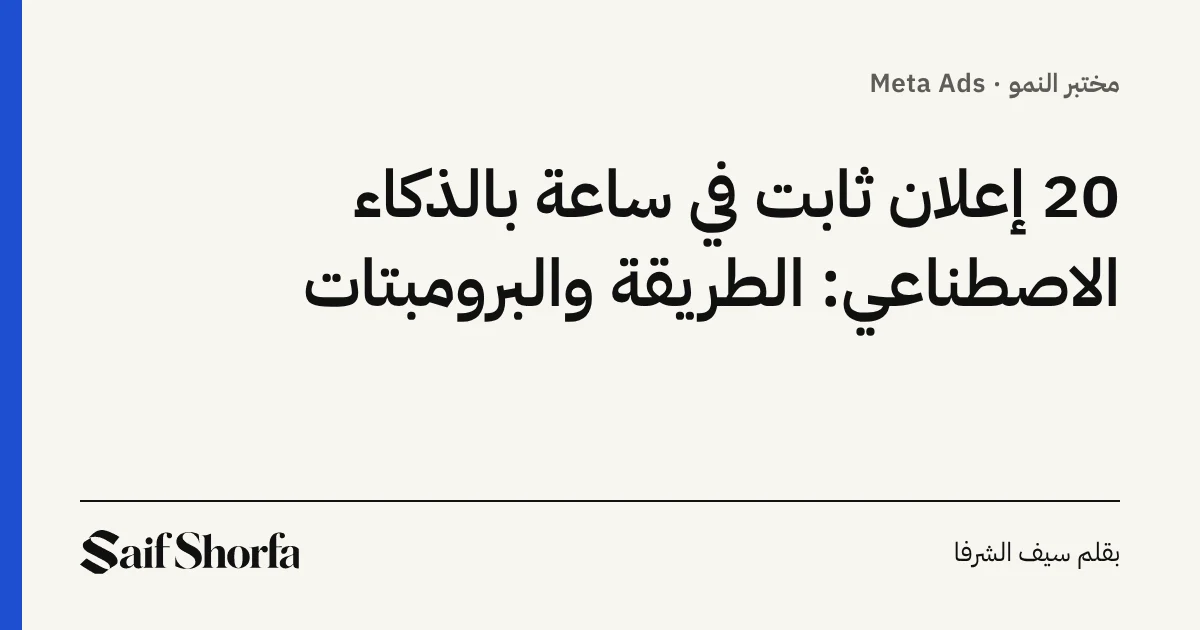
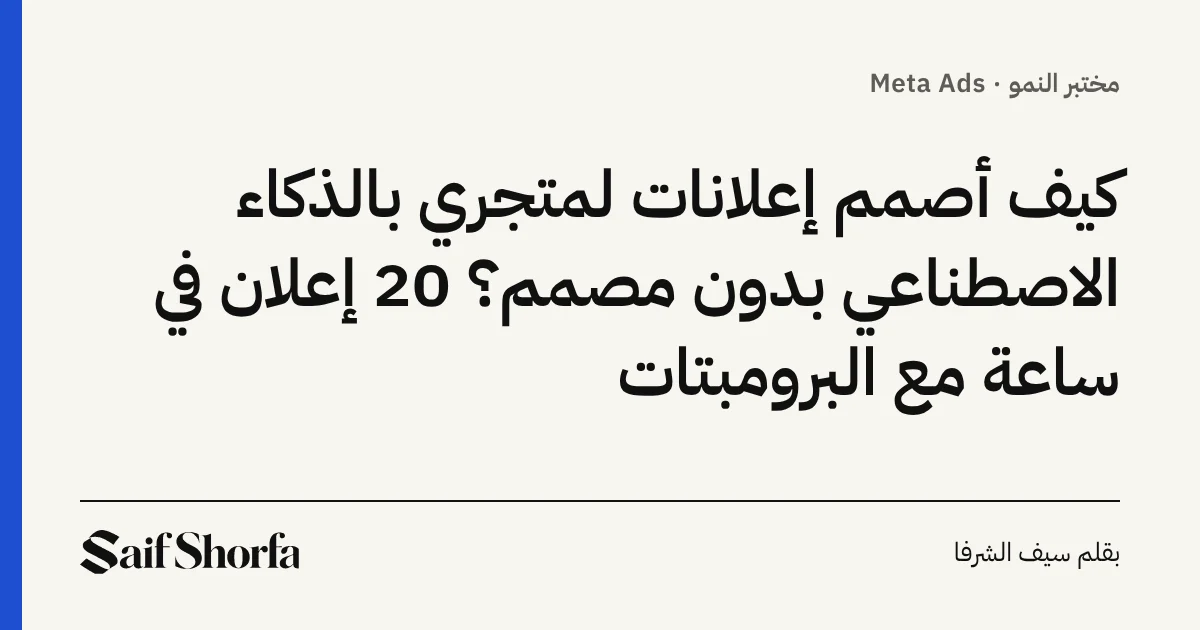
Retitle static ads articles as long AI-search questions (#34)
Question-form titles and H2s with direct short answers, 8 FAQs each. Slugs unchanged.

Claude-Session: https://claude.ai/code/session_01V6LGWVj9fonx4v4oqgoEkr

Changed region(s): [[0.1233, 0.2413, 0.9558, 0.5429], [0.4933, 0.5429, 0.9558, 0.6635]]

diff --git a/src/editorial/articles.body.js b/src/editorial/articles.body.js
@@ -4910,144 +4910,145 @@ export const content = {
 <p>كثير من أصحاب المتاجر في السعودية والخليج يحسبون إن الإعلان لازم يكون فيديو عشان يبيع. الفيديو قوي، بس الإعلان الثابت (Static Ad) أسرع وأرخص، وتقدر تختبر منه عشر أفكار بتكلفة فيديو واحد. جمعت لك هنا 12 شكل إعلان ثابت من براندات عالمية منشورة على Pinterest، ومع كل واحد: ليش يشتغل، وكيف تطبقه على متجرك، وبرومبت تبدأ فيه مع أدوات الذكاء الاصطناعي.</p>
 <p><strong>ملاحظة:</strong> الصور معروضة من Pinterest مباشرة مع رابط المصدر، وكل الحقوق لأصحابها. الهدف نتعلم الفكرة، مو ننسخ التصميم.</p>
 
-<h2>ليش الإعلان الثابت لسه يبيع؟</h2>
-<p>لأنه يوصل الرسالة في ثانية. العميل يسكرول بسرعة، والصورة اللي فيها جملة وحدة واضحة ومنتج واضح توقفه. وفوق هذا، الإعلان الثابت يخليك تختبر <strong>الزاوية</strong> (وش اللي يقنع العميل) قبل ما تصرف على فيديو. لما تعرف الزاوية الرابحة، بعدين حوّلها لفيديو.</p>
+<h2>هل إعلان الصورة لسه يبيع في ميتا ولا لازم فيديو؟</h2>
+<p>نعم، إعلان الصورة لسه يبيع، لأنه يوصل الرسالة في ثانية. العميل يسكرول بسرعة، والصورة اللي فيها جملة وحدة واضحة ومنتج واضح توقفه. وفوق هذا، الإعلان الثابت يخليك تختبر <strong>الزاوية</strong> (وش اللي يقنع العميل) قبل ما تصرف على فيديو. لما تعرف الزاوية الرابحة، بعدين حوّلها لفيديو.</p>
 
-<h2>1. من هذا إلى هذا (قبل وبعد)</h2>
+<h2>كيف أسوي إعلان قبل وبعد بدون ما ترفضه ميتا؟</h2>
+<p><strong>الجواب المختصر:</strong> يبان كأنه محتوى شخصي مو إعلان، والرسم البسيط يوصل النتيجة بدون كلام كثير.</p>
 
 <figure class="pin-figure">
   <a data-pin-do="embedPin" data-pin-width="medium" href="https://www.pinterest.com/pin/1125407394438815394/" target="_blank" rel="noopener nofollow">شاهد الإعلان على Pinterest</a>
   <figcaption>سبورة بيضاء مرسوم عليها «قبل وبعد» بخط اليد، والمنتج في اليد. <span class="pin-credit">المصدر: <a href="https://www.pinterest.com/pin/1125407394438815394/" target="_blank" rel="noopener nofollow">Pinterest</a>، والحقوق لأصحاب التصميم والبراند.</span></figcaption>
 </figure>
-<p><strong>ليش يشتغل:</strong> يبان كأنه محتوى شخصي مو إعلان، والرسم البسيط يوصل النتيجة بدون كلام كثير.</p>
 <p><strong>طبقه في الخليج:</strong> مناسب لمنتجات العناية والشعر والتنظيف. اكتب بخط اليد بلهجة قريبة: «إذا شعرك يتساقط... هذا اللي تحتاجه». انتبه لسياسات ميتا: لا تعرض صور جسم قبل وبعد لمنتجات الوزن والصحة.</p>
 <p class="prompt-label">برومبت تجربه:</p>
 <p><code>A hand holding a [product] jar next to a small whiteboard with simple hand-drawn before/after doodles, bright kitchen counter, natural daylight, UGC phone photo style, leave empty space on the whiteboard for text</code></p>
 
-<h2>2. عرض بوقت محدد</h2>
+<h2>وش أفضل شكل إعلان لعرض بوقت محدد مثل الجمعة البيضاء؟</h2>
+<p><strong>الجواب المختصر:</strong> الرقم كبير وواضح، والشريط المائل يعطي إحساس الاستعجال.</p>
 
 <figure class="pin-figure">
   <a data-pin-do="embedPin" data-pin-width="medium" href="https://www.pinterest.com/pin/1085226841492932743/" target="_blank" rel="noopener nofollow">شاهد الإعلان على Pinterest</a>
   <figcaption>إعلان خصم 30% على الموقع كله مع شريط «الساعات الأخيرة». <span class="pin-credit">المصدر: <a href="https://www.pinterest.com/pin/1085226841492932743/" target="_blank" rel="noopener nofollow">Pinterest</a>، والحقوق لأصحاب التصميم والبراند.</span></figcaption>
 </figure>
-<p><strong>ليش يشتغل:</strong> الرقم كبير وواضح، والشريط المائل يعطي إحساس الاستعجال.</p>
 <p><strong>طبقه في الخليج:</strong> استخدمه في الجمعة البيضاء، اليوم الوطني، ونهاية الشهر وقت الرواتب. اكتب «آخر 24 ساعة» وخل الخصم الحقيقي هو الرقم الأكبر في الصورة. وقبل ما تكثر من الخصومات اقرأ <a href="/blog/constant-discounts-eat-margin/">الخصم الدائم يأكل هامشك</a>.</p>
 <p class="prompt-label">برومبت تجربه:</p>
 <p><code>Bold sale poster for a [product category] brand, deep [brand color] background, product bottles arranged in the center, diagonal neon tape banner across the image, large empty area at the top for the discount number, studio lighting, high contrast</code></p>
 
-<h2>3. البحث والحل</h2>
+<h2>كيف أحوّل سؤال العميل في قوقل لإعلان صورة يبيع؟</h2>
+<p><strong>الجواب المختصر:</strong> يبدأ من سؤال العميل نفسه، فيحس إن الإعلان يكلمه هو.</p>
 
 <figure class="pin-figure">
   <a data-pin-do="embedPin" data-pin-width="medium" href="https://www.pinterest.com/pin/880242690208455354/" target="_blank" rel="noopener nofollow">شاهد الإعلان على Pinterest</a>
   <figcaption>شريط بحث فيه سؤال العميل، وتحته المنتج كحل. <span class="pin-credit">المصدر: <a href="https://www.pinterest.com/pin/880242690208455354/" target="_blank" rel="noopener nofollow">Pinterest</a>، والحقوق لأصحاب التصميم والبراند.</span></figcaption>
 </figure>
-<p><strong>ليش يشتغل:</strong> يبدأ من سؤال العميل نفسه، فيحس إن الإعلان يكلمه هو.</p>
 <p><strong>طبقه في الخليج:</strong> خذ أسئلة عملائك الحقيقية من واتساب والتعليقات واكتبها بلهجتهم: «كيف أخلي بشرتي ما تنشف في الشتاء؟». تحت السؤال: المنتج وجملة وحدة عن النتيجة.</p>
 <p class="prompt-label">برومبت تجربه:</p>
 <p><code>Minimal light grey background, a realistic search bar mockup at the top, below it a [product] jar with a creamy texture swatch, soft shadows, clean skincare aesthetic, space for two short text lines</code></p>
 
-<h2>4. الميم أو المشهد المعروف</h2>
+<h2>هل إعلانات الميمز تنفع للبراندات في السعودية والخليج؟</h2>
+<p><strong>الجواب المختصر:</strong> الدعابة توقف السكرول، والجملة القصيرة تربط الضحكة بفائدة المنتج.</p>
 
 <figure class="pin-figure">
   <a data-pin-do="embedPin" data-pin-width="medium" href="https://www.pinterest.com/pin/659707045460694681/" target="_blank" rel="noopener nofollow">شاهد الإعلان على Pinterest</a>
   <figcaption>إعلان واقي شمس يستخدم صيغة «محد كامل... بس» مع وضعية مشهورة. <span class="pin-credit">المصدر: <a href="https://www.pinterest.com/pin/659707045460694681/" target="_blank" rel="noopener nofollow">Pinterest</a>، والحقوق لأصحاب التصميم والبراند.</span></figcaption>
 </figure>
-<p><strong>ليش يشتغل:</strong> الدعابة توقف السكرول، والجملة القصيرة تربط الضحكة بفائدة المنتج.</p>
 <p><strong>طبقه في الخليج:</strong> استخدم عبارات دارجة في الخليج وميمز معروفة عند جمهورك، بس تجنب صور أشخاص مشهورين بدون إذن. الأفضل تصور شخص من فريقك بنفس الفكرة.</p>
 <p class="prompt-label">برومبت تجربه:</p>
 <p><code>A man in a black suit striking a dramatic pose on a plain beige background, a [product] tube standing on the right side, playful advertising composition, lots of negative space at the top for a quote</code></p>
 
-<h2>5. شكل تطبيق الملاحظات</h2>
+<h2>ليش الإعلان اللي يشبه ملاحظات الجوال يوقف السكرول؟</h2>
+<p><strong>الجواب المختصر:</strong> يشبه شي يشاركه صديق، فالعين ما تعامله كإعلان.</p>
 
 <figure class="pin-figure">
   <a data-pin-do="embedPin" data-pin-width="medium" href="https://www.pinterest.com/pin/1149754979901890661/" target="_blank" rel="noopener nofollow">شاهد الإعلان على Pinterest</a>
   <figcaption>إعلان مصمم كأنه ملاحظة في الجوال: «سري للحبوب والبشرة الدهنية». <span class="pin-credit">المصدر: <a href="https://www.pinterest.com/pin/1149754979901890661/" target="_blank" rel="noopener nofollow">Pinterest</a>، والحقوق لأصحاب التصميم والبراند.</span></figcaption>
 </figure>
-<p><strong>ليش يشتغل:</strong> يشبه شي يشاركه صديق، فالعين ما تعامله كإعلان.</p>
 <p><strong>طبقه في الخليج:</strong> اكتب كأنها ملاحظة شخصية: «روتيني قبل الدوام» أو «مشترياتي من الجمعة البيضاء»، مع 3 إلى 4 نقاط فيها إيموجي، والمنتج تحت.</p>
 <p class="prompt-label">برومبت تجربه:</p>
 <p><code>Phone notes app screenshot style, white background with a subtle grid, a [product] jar at the bottom, realistic iOS notes interface, leave the top two thirds empty for a handwritten-style list</code></p>
 
-<h2>6. خريطة الفوائد</h2>
+<h2>كيف أوضح مكونات المنتج وفوايده في صورة إعلان وحدة؟</h2>
+<p><strong>الجواب المختصر:</strong> يجاوب «وش فيه؟» في نظرة وحدة، وهذا يرفع الثقة في المنتجات اللي العميل يقارن مكوناتها.</p>
 
 <figure class="pin-figure">
   <a data-pin-do="embedPin" data-pin-width="medium" href="https://www.pinterest.com/pin/432134526763983081/" target="_blank" rel="noopener nofollow">شاهد الإعلان على Pinterest</a>
   <figcaption>المنتج في المنتصف، وحوله أسهم توضح كل مكون وفايدته. <span class="pin-credit">المصدر: <a href="https://www.pinterest.com/pin/432134526763983081/" target="_blank" rel="noopener nofollow">Pinterest</a>، والحقوق لأصحاب التصميم والبراند.</span></figcaption>
 </figure>
-<p><strong>ليش يشتغل:</strong> يجاوب «وش فيه؟» في نظرة وحدة، وهذا يرفع الثقة في المنتجات اللي العميل يقارن مكوناتها.</p>
 <p><strong>طبقه في الخليج:</strong> قوي للعطور (المكونات)، والعناية، والمكملات. اكتب الفوائد بكلمتين لكل سهم، ولا تزحم الصورة بأكثر من 5 أسهم.</p>
 <p class="prompt-label">برومبت تجربه:</p>
 <p><code>Product flat lay of [product] packets on a warm cream background, thin line arrows pointing to each part, editorial infographic style, empty labels area around the product, soft light</code></p>
 
-<h2>7. شكل منشور إنستغرام</h2>
+<h2>هل الإعلان اللي يشبه منشور إنستغرام عادي يبيع أكثر؟</h2>
+<p><strong>الجواب المختصر:</strong> يتماشى مع الفيد، فيبان محتوى عادي، والزر يوضح الخطوة الجاية.</p>
 
 <figure class="pin-figure">
   <a data-pin-do="embedPin" data-pin-width="medium" href="https://www.pinterest.com/pin/1026117096398811495/" target="_blank" rel="noopener nofollow">شاهد الإعلان على Pinterest</a>
   <figcaption>إعلان مصمم كأنه منشور إنستغرام مع زر خصم. <span class="pin-credit">المصدر: <a href="https://www.pinterest.com/pin/1026117096398811495/" target="_blank" rel="noopener nofollow">Pinterest</a>، والحقوق لأصحاب التصميم والبراند.</span></figcaption>
 </figure>
-<p><strong>ليش يشتغل:</strong> يتماشى مع الفيد، فيبان محتوى عادي، والزر يوضح الخطوة الجاية.</p>
 <p><strong>طبقه في الخليج:</strong> حط اسم حسابك وصورة المنتج بألوان البراند، وزر واضح مثل «اطلب الحين واستلم بكرة».</p>
 <p class="prompt-label">برومبت تجربه:</p>
 <p><code>Instagram post mockup with a bright sky blue background, a [product] jar surrounded by its raw ingredients, small rounded badges on both sides, a pill-shaped button at the bottom, playful food brand style</code></p>
 
-<h2>8. إعلان الموسم</h2>
+<h2>وش أفضل تصميم إعلان لمواسم رمضان واليوم الوطني والجمعة البيضاء؟</h2>
+<p><strong>الجواب المختصر:</strong> التاريخ واضح، والخصم كبير، والمنتجات في مشهد جذاب.</p>
 
 <figure class="pin-figure">
   <a data-pin-do="embedPin" data-pin-width="medium" href="https://www.pinterest.com/pin/848084173619769984/" target="_blank" rel="noopener nofollow">شاهد الإعلان على Pinterest</a>
   <figcaption>إعلان بلاك فرايدي بخلفية بنفسجية ومنتجات على الرمل وخصم يصل 40%. <span class="pin-credit">المصدر: <a href="https://www.pinterest.com/pin/848084173619769984/" target="_blank" rel="noopener nofollow">Pinterest</a>، والحقوق لأصحاب التصميم والبراند.</span></figcaption>
 </figure>
-<p><strong>ليش يشتغل:</strong> التاريخ واضح، والخصم كبير، والمنتجات في مشهد جذاب.</p>
 <p><strong>طبقه في الخليج:</strong> نفس الفكرة لرمضان واليوم الوطني ويوم التأسيس والجمعة البيضاء، مع التواريخ مكتوبة. ولقراءة نتائج الموسم صح شوف <a href="/blog/black-friday-results-review/">كيف تقيّم نتائج الجمعة البيضاء</a>.</p>
 <p class="prompt-label">برومبت تجربه:</p>
 <p><code>Festive seasonal sale visual, purple gradient sky, [product] bottles standing on soft sand with small decorative elements, glossy commercial lighting, large empty area at the top for the sale headline and dates</code></p>
 
-<h2>9. التقييمات حول المنتج</h2>
+<h2>كيف أستخدم تقييمات عملائي في إعلان صورة؟</h2>
+<p><strong>الجواب المختصر:</strong> الإثبات الاجتماعي يجاوب «هل جربه أحد؟» قبل ما يسأل.</p>
 
 <figure class="pin-figure">
   <a data-pin-do="embedPin" data-pin-width="medium" href="https://www.pinterest.com/pin/1049127675703104700/" target="_blank" rel="noopener nofollow">شاهد الإعلان على Pinterest</a>
   <figcaption>منتج واقي شمس وحوله تقييمات عملاء بخمس نجوم. <span class="pin-credit">المصدر: <a href="https://www.pinterest.com/pin/1049127675703104700/" target="_blank" rel="noopener nofollow">Pinterest</a>، والحقوق لأصحاب التصميم والبراند.</span></figcaption>
 </figure>
-<p><strong>ليش يشتغل:</strong> الإثبات الاجتماعي يجاوب «هل جربه أحد؟» قبل ما يسأل.</p>
 <p><strong>طبقه في الخليج:</strong> استخدم تقييمات حقيقية من متجرك في سلة أو زد، بأسماء مختصرة وبإذن العميل. لا تخترع تقييمات.</p>
 <p class="prompt-label">برومبت تجربه:</p>
 <p><code>A [product] tube on a vivid blue background, floating white review cards with five stars arranged around it, clean UI style, soft shadows, leave the review text areas blank</code></p>
 
-<h2>10. فقاعات المحادثة</h2>
+<h2>كيف أكتب إعلان صورة بكلام العميل نفسه؟</h2>
+<p><strong>الجواب المختصر:</strong> العميل يشوف شكواه مكتوبة بكلماته، فيحس إن المنتج له.</p>
 
 <figure class="pin-figure">
   <a data-pin-do="embedPin" data-pin-width="medium" href="https://www.pinterest.com/pin/1085226841496413153/" target="_blank" rel="noopener nofollow">شاهد الإعلان على Pinterest</a>
   <figcaption>فقاعات محادثة فيها شكاوى يومية، والمنتج كحل. <span class="pin-credit">المصدر: <a href="https://www.pinterest.com/pin/1085226841496413153/" target="_blank" rel="noopener nofollow">Pinterest</a>، والحقوق لأصحاب التصميم والبراند.</span></figcaption>
 </figure>
-<p><strong>ليش يشتغل:</strong> العميل يشوف شكواه مكتوبة بكلماته، فيحس إن المنتج له.</p>
 <p><strong>طبقه في الخليج:</strong> اكتب الفقاعات بلهجة خليجية: «الساعة 3 العصر وأنا خلاص طفيت»، «بشرتي باهتة من المكيف». المحادثة شي يعرفه الكل من واتساب.</p>
 <p class="prompt-label">برومبت تجربه:</p>
 <p><code>Soft pastel gradient background, three chat bubbles with small round avatars on the left, a [product] tub in the bottom left corner, friendly wellness brand style, bubble text left empty</code></p>
 
-<h2>11. عرض الباقة</h2>
+<h2>هل عروض الباقات مثل «اشتر 2 واحصل على 2» تنفع لمتجري؟</h2>
+<p><strong>الجواب المختصر:</strong> العرض مكتوب بخط ضخم، والعربة المليانة توصل إحساس الكمية والقيمة.</p>
 
 <figure class="pin-figure">
   <a data-pin-do="embedPin" data-pin-width="medium" href="https://www.pinterest.com/pin/896779344563954123/" target="_blank" rel="noopener nofollow">شاهد الإعلان على Pinterest</a>
   <figcaption>عرض «اشتر 2 واحصل على 2» بعربة تسوق مليانة منتجات وخلفية صفراء. <span class="pin-credit">المصدر: <a href="https://www.pinterest.com/pin/896779344563954123/" target="_blank" rel="noopener nofollow">Pinterest</a>، والحقوق لأصحاب التصميم والبراند.</span></figcaption>
 </figure>
-<p><strong>ليش يشتغل:</strong> العرض مكتوب بخط ضخم، والعربة المليانة توصل إحساس الكمية والقيمة.</p>
 <p><strong>طبقه في الخليج:</strong> الباقات ترفع متوسط قيمة الطلب، وهذا يهم لما يكون عندك شحن أو دفع عند الاستلام. احسب الهامش قبل العرض، وشوف <a href="/blog/roas-with-discounts/">كيف تحسب العائد مع الخصومات</a>.</p>
 <p class="prompt-label">برومبت تجربه:</p>
 <p><code>Mini shopping cart full of [product] bottles and tubes on a bright yellow background, a small receipt hanging from the cart, punchy retail ad style, large empty area at the top for an offer headline</code></p>
 
-<h2>12. التشبيه البصري</h2>
+<h2>كيف أوصل ميزة منتجي بصورة بدون كلام كثير؟</h2>
+<p><strong>الجواب المختصر:</strong> يحول ميزة مجردة (سكر أقل) لصورة يفهمها أي أحد بدون قراءة.</p>
 
 <figure class="pin-figure">
   <a data-pin-do="embedPin" data-pin-width="medium" href="https://www.pinterest.com/pin/920986192568148542/" target="_blank" rel="noopener nofollow">شاهد الإعلان على Pinterest</a>
   <figcaption>ميزان فيه علب مشروب مقابل مكعبات سكر توضح الفرق. <span class="pin-credit">المصدر: <a href="https://www.pinterest.com/pin/920986192568148542/" target="_blank" rel="noopener nofollow">Pinterest</a>، والحقوق لأصحاب التصميم والبراند.</span></figcaption>
 </figure>
-<p><strong>ليش يشتغل:</strong> يحول ميزة مجردة (سكر أقل) لصورة يفهمها أي أحد بدون قراءة.</p>
 <p><strong>طبقه في الخليج:</strong> فكر بالميزة الأقوى عندك وكيف تشوفها العين: ميزان، مقارنة حجم، أو ساعة. وتأكد إن أي ادعاء صحي أو رقمي عندك دليل عليه.</p>
 <p class="prompt-label">برومبت تجربه:</p>
 <p><code>A vintage kitchen scale on a cobalt blue background, [product] cans on one side and a pile of sugar cubes on the other, cubes falling from above, surreal clean product photography, space at the top for a headline</code></p>
 
 <!--cta-->
 
-<h2>كيف تختار من الـ 12؟</h2>
+<h2>أي شكل إعلان صورة أبدأ فيه لمتجري؟</h2>
+<p>ابدأ من أقوى شي عندك: لو عندك أسئلة متكررة من العملاء، ابدأ بإعلان «البحث والحل» أو «المحادثة». لو عندك تقييمات قوية، ابدأ بالتقييمات أو قبل وبعد. ولو عندك موسم أو عرض، ابدأ بإعلان العرض أو الباقة. واختبر 3 إلى 5 أشكال مع بعض بدل ما تراهن على واحد.</p>
 <ol>
   <li><strong>ابدأ بمشكلة العميل:</strong> لو عندك أسئلة متكررة، ابدأ بـ «البحث والحل» و«فقاعات المحادثة».</li>
   <li><strong>لو عندك تقييمات قوية:</strong> «التقييمات حول المنتج» و«قبل وبعد».</li>
@@ -5056,7 +5057,7 @@ export const content = {
   <li><strong>احكم على المبيعات، مو النقرات:</strong> إعلان يجيب نقرات كثير وما يبيع ممكن تكون المشكلة في الصفحة أو العرض. اقرأ <a href="/blog/high-ctr-no-sales/">نقرات عالية بدون مبيعات</a>.</li>
 </ol>
 
-<h2>كيف تستخدم البرومبتات؟</h2>
+<h2>كيف أستخدم البرومبتات مع أدوات الذكاء الاصطناعي لتصميم الإعلان؟</h2>
 <p>البرومبتات مكتوبة بالإنجليزي لأن أدوات توليد الصور تفهمه أفضل. بدّل <code>[product]</code> باسم منتجك ونوعه، وارفع صورة منتجك الحقيقية كمرجع إذا الأداة تسمح. خل الصورة بدون نص، وأضف النص العربي بعدين في Canva أو أي برنامج تصميم، لأن أدوات الذكاء الاصطناعي لسه تغلط في الحروف العربية.</p>
 
 <h2>الخلاصة</h2>
@@ -5078,6 +5079,22 @@ export const content = {
       [
         "كم إعلان ثابت أختبر في البداية؟",
         "من 3 إلى 5 أشكال مختلفة في نفس الوقت، وكل شكل بنسختين، وبعدها كبّر اللي يبيع.",
+      ],
+      [
+        "وش أفضل تصميم إعلان لمتجر عطور أو عناية في السعودية؟",
+        "الأشكال اللي توضح المكونات والفوائد، والتقييمات، وقبل وبعد (للعناية بدون ادعاءات طبية). اختبر أكثر من شكل واحكم على المبيعات.",
+      ],
+      [
+        "هل أكتب الإعلان بالفصحى أو باللهجة الخليجية؟",
+        "اللهجة الخليجية البسيطة غالبًا أقرب للعميل في السوشيال، بشرط تكون واضحة ومفهومة. اكتب بكلمات عملائك نفسهم من التعليقات وواتساب.",
+      ],
+      [
+        "كم مرة أغير تصاميم الإعلانات؟",
+        "لما تلاحظ الأداء ينزل والتكرار يرتفع، وغالبًا كل أسبوعين إلى أربعة لإعلانات الصور. جهز النسخ الجديدة قبل ما يتعب الإعلان القديم.",
+      ],
+      [
+        "هل إعلانات الصور تنفع في سناب شات وتيك توك؟",
+        "تنفع، بس الفيديو أقوى هناك عادة. استخدم الصورة لاختبار الفكرة بسرعة، وحوّل الرابح لفيديو قصير.",
       ],
     ],
     sources: [
@@ -5107,7 +5124,8 @@ export const content = {
 <p>أكثر شي يوقف أصحاب المتاجر عن اختبار إعلانات جديدة هو الوقت والتكلفة: مصمم، جلسة تصوير، وأيام انتظار. مع الذكاء الاصطناعي تقدر تطلع 20 نسخة إعلان ثابت في ساعة، بشرط تشتغل بنظام واضح. هنا الطريقة اللي أنصح فيها، مع برومبتات جاهزة وأمثلة من Pinterest تلهمك.</p>
 <p><strong>ملاحظة:</strong> الأمثلة معروضة من Pinterest مع رابط المصدر، والحقوق لأصحابها. نتعلم منها الفكرة، ونصمم نسختنا.</p>
 
-<h2>المعادلة: 5 زوايا × 4 نسخ</h2>
+<h2>كيف أطلع 20 إعلان لمتجري في ساعة وحدة؟</h2>
+<p>الطريقة إنك تشتغل بمعادلة: 5 زوايا بيع × 4 نسخ لكل زاوية = 20 إعلان. الذكاء الاصطناعي يكتب العناوين ويولد المشاهد، وأنت تضيف صورة منتجك الحقيقية والنص العربي في Canva. هيك كل مجموعة إعلانات تختبر فكرة وحدة، وتعرف بسرعة وش يقنع عميلك.</p>
 <p>الزاوية هي السبب اللي يخلي العميل يشتري. مثلًا لمتجر عناية بالبشرة:</p>
 <ol>
   <li><strong>المشكلة:</strong> «بشرتك تنشف من المكيف؟»</li>
@@ -5118,12 +5136,14 @@ export const content = {
 </ol>
 <p>لكل زاوية سوّي 4 نسخ: تغير الخلفية، أو العنوان، أو زاوية التصوير، أو اللون. هيك عندك 20 إعلان، وكل مجموعة تختبر فكرة وحدة.</p>
 
-<h2>الخطوة 1: العناوين في 10 دقايق</h2>
+<h2>كيف أكتب عناوين إعلانات بالذكاء الاصطناعي بلهجة خليجية؟</h2>
+<p>أعطِ الأداة نوع منتجك، وسوقك (السعودية والخليج)، والزوايا اللي تبيها، واطلب عناوين قصيرة أقل من 7 كلمات بلهجة خليجية بسيطة وبدون مبالغة. بعدين اختار الأقوى وراجع كل وعد فيه. هذا ياخذ حوالي 10 دقايق.</p>
 <p>اطلب من ChatGPT أو Claude أو Gemini:</p>
 <p><code dir="rtl">أنا متجر [نوع المنتج] في السعودية والخليج. اكتب لي 4 عناوين إعلان قصيرة (أقل من 7 كلمات) لكل زاوية من هذه الزوايا: المشكلة، النتيجة، الإثبات، العرض، الهوية. بلهجة خليجية بسيطة، بدون مبالغة ولا ادعاءات طبية.</code></p>
 <p>اختر الأقوى، وتأكد إن كل وعد في العنوان صحيح وتقدر تثبته.</p>
 
-<h2>الخطوة 2: المشاهد في 30 دقيقة</h2>
+<h2>وش أفضل برومبت لتصميم إعلان منتج بالذكاء الاصطناعي؟</h2>
+<p>أفضل برومبت يوصف المشهد مو الإعلان كامل: المنتج، والخلفية واللون، والإضاءة، وزاوية التصوير، ومساحة فاضية للنص. اكتبه بالإنجليزي لأن أدوات الصور تفهمه أفضل، واطلب الصورة بدون أي نص. تحت 8 أنماط مجرّبة مع برومبت لكل واحد.</p>
 <p>هذي أمثلة من Pinterest لأنماط بصرية تنفع كقوالب، ومع كل واحد برومبت لنسختك.</p>
 
 <h3>المودل مع المنتج</h3>
@@ -5198,7 +5218,9 @@ export const content = {
 <p>يناسب زاوية <strong>المشكلة</strong> بأسلوب ذكي. الشكل مألوف للكل من الجوال.</p>
 <p><code>Smartphone incoming call screen mockup, dark green background, a [product] pouch shown as the caller photo, red and green call buttons at the bottom, space at the top for a two line message</code></p>
 
-<h2>الخطوة 3: التجميع في 20 دقيقة</h2>
+<h2>هل أقدر أكتب نص عربي في الصورة بالذكاء الاصطناعي؟</h2>
+<p>غالبًا لا بشكل مضبوط. أدوات توليد الصور لسه تغلط في الحروف العربية وتشبيكها، فالأفضل تطلب الصورة بدون نص، وتضيف العنوان العربي بنفسك في Canva أو أي برنامج تصميم. هيك تضمن الخط والإملاء وتحافظ على هوية البراند.</p>
+<p>خطوات التجميع (حوالي 20 دقيقة):</p>
 <ol>
   <li>افتح Canva، وحط المشهد اللي طلعته.</li>
   <li>إذا المشهد فيه منتج مولّد، بدّله بصورة منتجك الحقيقية (احذف الخلفية من الصورة الأصلية). العميل لازم يشوف المنتج اللي بيستلمه.</li>
@@ -5208,7 +5230,8 @@ export const content = {
 
 <!--cta-->
 
-<h2>كيف تختبر الـ 20 بدون ما تحرق الميزانية؟</h2>
+<h2>كم إعلان أختبر بالبداية وكيف ما أحرق الميزانية؟</h2>
+<p>لا تشغّل الـ 20 مع بعض. ابدأ بنسخة وحدة من كل زاوية (5 إعلانات) عشان تعرف أي سبب يقنع العميل، وبعدها اختبر النسخ الأربع للزاوية الرابحة بس. واحكم على الطلبات والمبيعات، مو على النقرات.</p>
 <ol>
   <li><strong>أول اختبار للزوايا:</strong> نسخة وحدة من كل زاوية (5 إعلانات) في حملة وحدة.</li>
   <li><strong>بعد ما تبان الزاوية الرابحة:</strong> شغّل نسخها الأربع وشوف أي تصميم أقوى.</li>
@@ -5217,7 +5240,8 @@ export const content = {
 </ol>
 <p>وللأفكار اللي تبدأ منها، شوف <a href="/blog/static-ad-formats-gulf/">12 شكل إعلان ثابت يبيع في الخليج</a>.</p>
 
-<h2>أخطاء شائعة مع إعلانات الذكاء الاصطناعي</h2>
+<h2>هل ميتا ترفض الإعلانات المصممة بالذكاء الاصطناعي؟</h2>
+<p>ميتا ما ترفض الإعلان لأنه مصمم بالذكاء الاصطناعي بحد ذاته. الرفض غالبًا يجي من المحتوى: ادعاءات ما تقدر تثبتها، أو صور قبل وبعد لمنتجات صحية، أو محتوى مضلل. وفي بعض الحالات ممكن تطلب الإفصاح عن الصور المولدة. هذي أشهر الأخطاء:</p>
 <ul>
   <li><strong>منتج مولّد يختلف عن الحقيقي:</strong> هذا يضر الثقة ويرفع المرتجع. استخدم صورة منتجك.</li>
   <li><strong>نص عربي من أداة الصور:</strong> غالبًا فيه أخطاء. أضفه يدويًا.</li>
@@ -5244,6 +5268,22 @@ export const content = {
       [
         "هل ميتا ترفض الإعلانات المصممة بالذكاء الاصطناعي؟",
         "ميتا تراجع المحتوى والادعاءات، وممكن تطلب الإفصاح عن الصور المولدة في بعض الحالات. التزم بسياسات الإعلانات، وتجنب الادعاءات اللي ما تقدر تثبتها.",
+      ],
+      [
+        "هل أحتاج مصمم إذا استخدمت الذكاء الاصطناعي؟",
+        "تقدر تبدأ بدون مصمم للاختبار. لما تعرف الفكرة الرابحة، المصمم يفيدك في تحسينها وتوحيد الهوية.",
+      ],
+      [
+        "هل الإعلانات المولدة بالذكاء الاصطناعي تبيع مثل التصوير الحقيقي؟",
+        "تعتمد على الفكرة والمنتج. الأهم إن المنتج في الإعلان هو نفسه الحقيقي، والحكم يكون على المبيعات مو على شكل التصميم.",
+      ],
+      [
+        "كيف أخلي إعلانات الذكاء الاصطناعي تناسب جمهور الخليج؟",
+        "استخدم لهجة خليجية في العنوان، ولبس وستايل يناسب جمهورك، ومواسم مثل رمضان واليوم الوطني، والعملة المحلية في العرض.",
+      ],
+      [
+        "أي مقاس أصدّر فيه إعلانات الصور؟",
+        "مربع 1:1 للفيد، وطولي 9:16 للستوري والريلز. جهز المقاسين لكل نسخة.",
       ],
     ],
     sources: [

diff --git a/src/editorial/articles.meta.js b/src/editorial/articles.meta.js
@@ -1310,9 +1310,10 @@ export const articles = [
   },
   {
     slug: "static-ad-formats-gulf",
-    title: "12 شكل إعلان ثابت يبيع في الخليج: أمثلة حقيقية وبرومبت لكل واحد",
+    title:
+      "وش أفضل تصاميم إعلانات الصور اللي تبيع لمتجر في السعودية والخليج؟ 12 مثال مع برومبت لكل واحد",
     seoTitle:
-      "أمثلة إعلانات ثابتة (Static Ads) تبيع في السعودية والخليج + برومبتات",
+      "وش أفضل تصاميم إعلانات الصور (Static Ads) اللي تبيع في السعودية والخليج؟ 12 مثال + برومبت",
     description:
       "12 فكرة إعلان ثابت (Static Ad) مجرّبة عند براندات عالمية، مع شرح ليش تشتغل وكيف تطبقها على متجرك في السعودية والخليج، وبرومبت ذكاء اصطناعي لكل فكرة.",
     targetKeyword: "امثلة اعلانات ثابتة",
@@ -1331,9 +1332,10 @@ export const articles = [
   },
   {
     slug: "ai-static-ads-in-one-hour",
-    title: "20 إعلان ثابت في ساعة بالذكاء الاصطناعي: الطريقة والبرومبتات",
+    title:
+      "كيف أصمم إعلانات لمتجري بالذكاء الاصطناعي بدون مصمم؟ 20 إعلان في ساعة مع البرومبتات",
     seoTitle:
-      "تصميم إعلانات ثابتة بالذكاء الاصطناعي: 20 نسخة في ساعة لمتجرك في الخليج",
+      "كيف أصمم إعلانات لمتجري بالذكاء الاصطناعي بدون مصمم؟ برومبتات جاهزة لمتاجر الخليج",
     description:
       "كيف تطلع 20 نسخة إعلان ثابت لمتجرك في ساعة باستخدام الذكاء الاصطناعي: 5 زوايا × 4 نسخ، برومبتات جاهزة، وأمثلة من Pinterest، وكيف تختبرها في ميتا بدون ما تحرق الميزانية.",
     targetKeyword: "تصميم اعلانات بالذكاء الاصطناعي",
